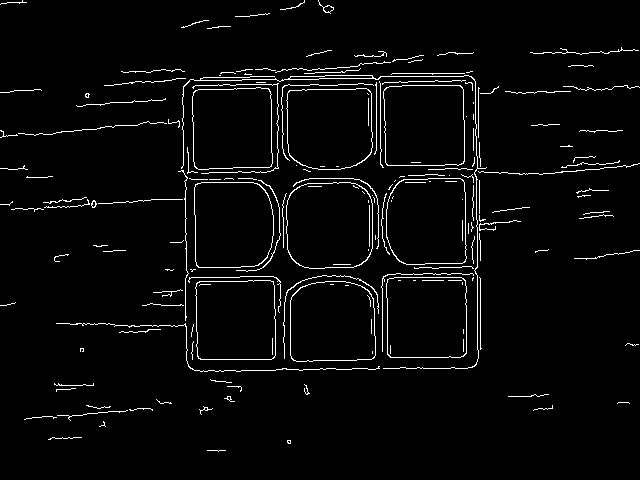
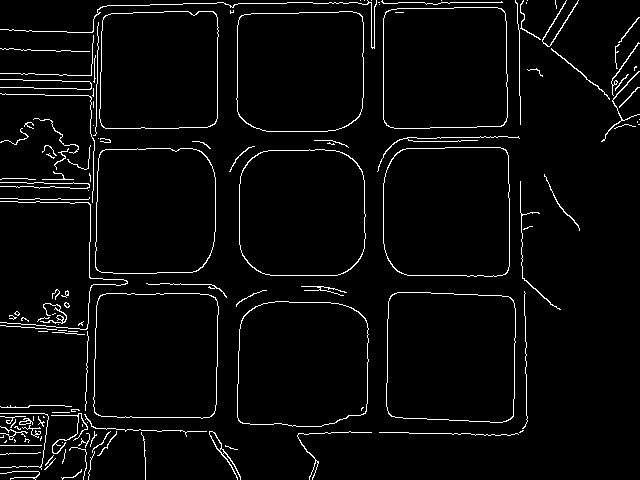
now contours are cleaner and trying to remove non-squarish ones.

diff --git a/src/LearnContours.java b/src/LearnContours.java
@@ -1,12 +1,12 @@
-import java.awt.image.BufferedImage;
 import java.util.ArrayList;
 import java.util.List;
-
-import javax.swing.text.html.ImageView;
 
 import org.opencv.core.Core;
 import org.opencv.core.Mat;
 import org.opencv.core.MatOfPoint;
+import org.opencv.core.MatOfPoint2f;
+import org.opencv.core.Point;
+import org.opencv.core.Rect;
 import org.opencv.core.Scalar;
 import org.opencv.core.Size;
 import org.opencv.imgcodecs.Imgcodecs;
@@ -21,7 +21,6 @@ public class LearnContours {
 
 		Mat capturedFrame = Imgcodecs.imread("first.png");
 		
-		Imgproc.cvtColor(capturedFrame, capturedFrame, Imgproc.COLOR_BGR2RGB);
     	//Gray
     	Mat gray = new Mat();
     	Imgproc.cvtColor(capturedFrame, gray, Imgproc.COLOR_BGR2GRAY);
@@ -36,41 +35,99 @@ public class LearnContours {
     	
     	Imgcodecs.imwrite("test.png", canny);
     	
-    	//System.exit(0);
+    	//Dilate image to increase size of lines
         Mat kernel = Imgproc.getStructuringElement(1, new Size(3,3));
         Mat dilated = new Mat();
-        
         Imgproc.dilate(canny,dilated, kernel);
-        
-        //Imgproc.cvtColor(captImg, dst, Imgproc.COLOR_GRAY2BGR);
-    	
-        /*Imgcodecs.imwrite("after.png", dilated);
-       System.exit(0);*/
         
     	
     	List<MatOfPoint> contours = new ArrayList<>();
     	//find contours
     	Imgproc.findContours(dilated, contours, new Mat(), Imgproc.RETR_TREE, Imgproc.CHAIN_APPROX_NONE);
-    	//draw contours
-
-    	Imgproc.cvtColor(capturedFrame, capturedFrame, Imgproc.COLOR_BGR2RGB);
     	
+    	//convert image 
+    	Imgproc.cvtColor(capturedFrame, capturedFrame, Imgproc.COLOR_BGR2RGB);
+
+    	
+    	//Draw contours on original image
+    	for(int n = 0; n < contours.size(); n++){
+    		Imgproc.drawContours(capturedFrame, contours, n, new Scalar(255, 0 , 0), 1);
+    	}
+    	
+    	Imgcodecs.imwrite("before.png", capturedFrame);
+    	
+    	//display image with all contours
+    	Imshow showImg = new Imshow("displayImage");
+    	showImg.show(capturedFrame);
+    	
+    	
+    	//Remove contours that aren't close to a square shape.
     	for(int i = 0; i < contours.size(); i++){
-    		Imgproc.drawContours(capturedFrame, contours, i, new Scalar(0, 0, 255), -1);
+    		
+    		double area = Imgproc.contourArea( contours.get(i)); 
+    		MatOfPoint2f contour2f = new MatOfPoint2f(contours.get(i).toArray());
+    		double perimeter = Imgproc.arcLength(contour2f, true);
+
+    		double squareness = 4 * Math.PI * area / Math.pow(perimeter, 2);
+
+    		System.out.println("Squareness: " + squareness);
+
+
+    		if(squareness <= 0.7 && squareness >=  0.8){
+    			contours.remove(i);
+    		}
     	}
     	
     	
+    	for(int i = 0; i < contours.size(); i++){
+    		Imgproc.drawContours(capturedFrame, contours, i, new Scalar(0, 255, 0), 1);
+    	}
     	
+    	    	
+    		
+    	showImg.show(capturedFrame);
+    	Imgcodecs.imwrite("remove.png", capturedFrame);
+    	
+    	
+    	for(int i = 0; i < contours.size(); i++){
+
+    		Imgproc.drawContours(capturedFrame, contours, i, new Scalar(0, 0, 255), 1);
+    	}
     	
     	
     	Imgcodecs.imwrite("after.png", capturedFrame);
     	
-    	
     	Imshow img = new Imshow("firstImg");
     	
     	img.show(capturedFrame);
+     		
     	
-    	
-    	//System.exit(0);
 	}
+	
+	
+ 	
+	
+	/*    	
+    MatOfPoint2f         approxCurve = new MatOfPoint2f();
+	for(int n = 0; n < contours.size(); n++){
+
+	    //Convert contours(i) from MatOfPoint to MatOfPoint2f
+        MatOfPoint2f contour2f = new MatOfPoint2f( contours.get(n).toArray() );
+        //Processing on mMOP2f1 which is in type MatOfPoint2f
+        double approxDistance = Imgproc.arcLength(contour2f, true)*0.02;
+        Imgproc.approxPolyDP(contour2f, approxCurve, approxDistance, true);
+
+        //Convert back to MatOfPoint
+        MatOfPoint points = new MatOfPoint( approxCurve.toArray() );
+
+        // Get bounding rect of contour
+        Rect rect = Imgproc.boundingRect(points);
+
+         // draw enclosing rectangle (all same color, but you could use variable i to make them unique)
+        Imgproc.rectangle(capturedFrame, new Point(rect.x,rect.y), new Point(rect.x+rect.width,rect.y+rect.height),new Scalar (255, 0, 0, 255), 3); 
+
+        
+        
+	}
+	    	*/
 }
